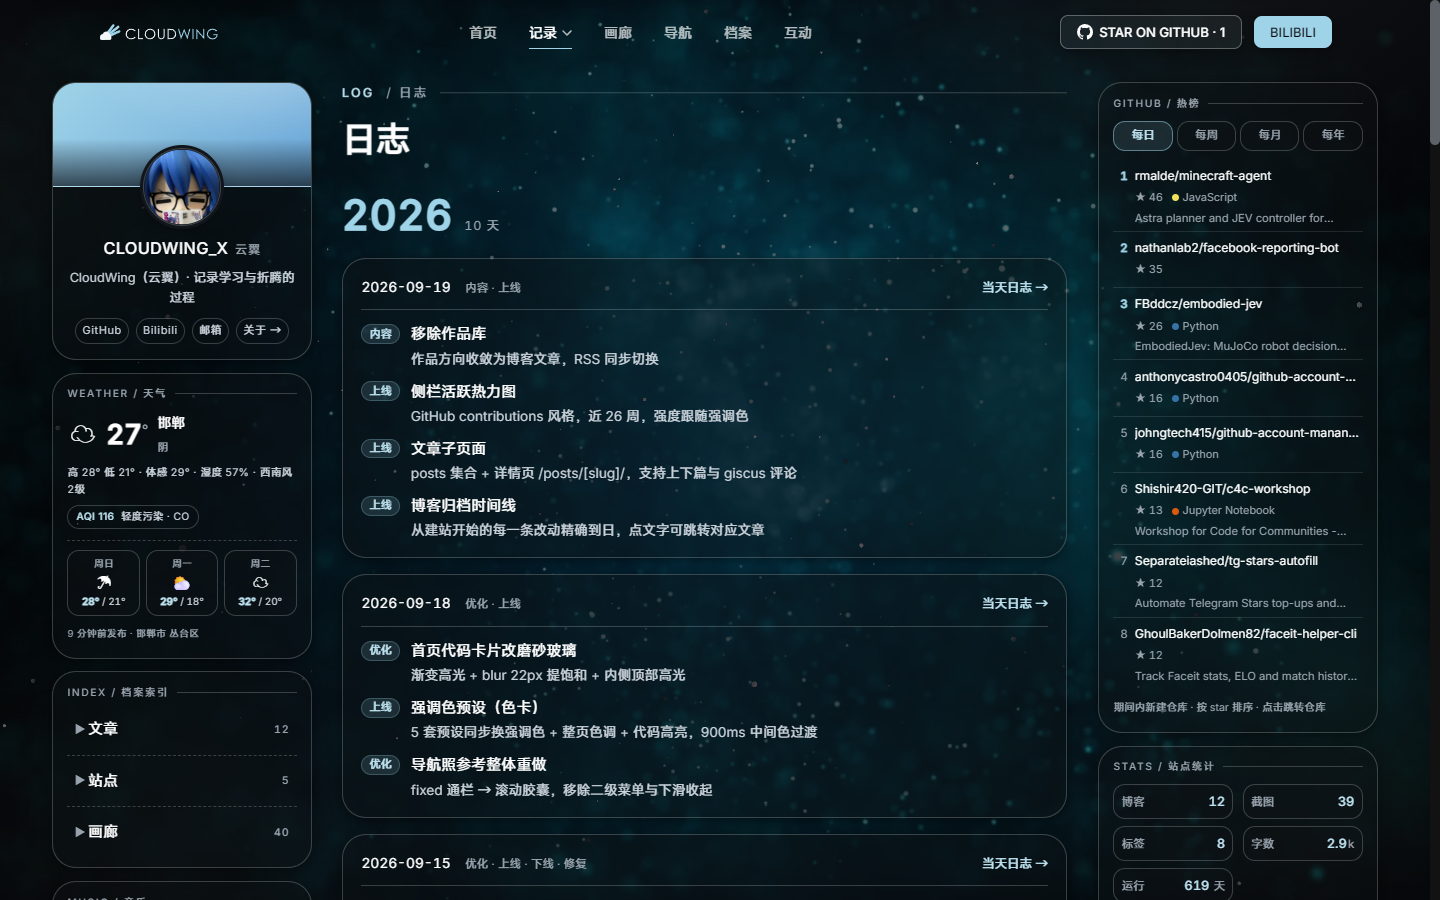
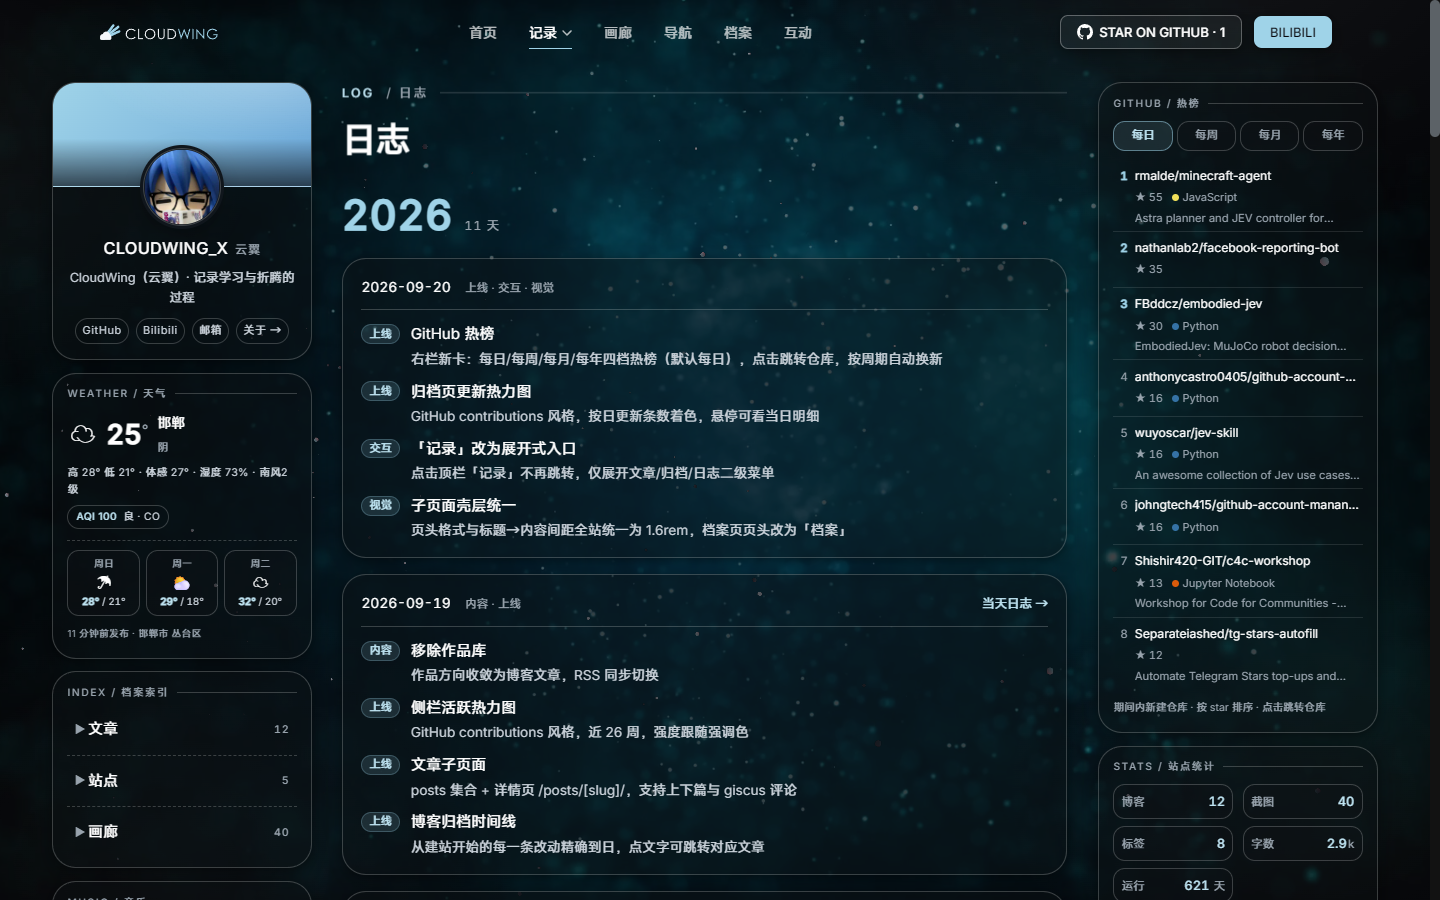
docs: 交接文档完善——基线数字刷新 + §57 章节地图 + 09-20 changelog 补录
- 头部/§0/§7.2/§14 基线统一：21 个验证脚本、发布前全量 21/21、smoke 58/58（2026-09-20 实测）、#424 已修复口径
- §7.2 脚本表补 verify-ghhot 行；§10 补两条遗留（热榜数据口径与限流 / 短页右栏底部可达性）
- §13 划掉已完成项（文案断言已由 verify-copy 解决、09-18 changelog 已补），新增候选：热榜数据源升级、验证套件上 CI（当前最大工程缺口）
- 新增 §57 章节地图与交接导航：编号乱序由来（活文档+插叙，编号为稳定引用不重排）、新接手者 7 步阅读路径、主题→章节索引
- 补录 src/content/changelog/2026-09-20.md（4 条：壳层统一/记录展开式入口/归档热力图/GitHub 热榜）——归档与日志页数据源当天改动当天补
- 验证：build+pagefind 过、verify-copy 31/31、verify-log 过、09-20 条目进归档页

diff --git a/docs/HANDOFF.md b/docs/HANDOFF.md
@@ -10,7 +10,9 @@
 > （见 §43.1），其"简版硬规则"职责并入本文件。
 > 文中的本机路径（`D:\deep seek workplace\...`、Edge 路径、代理端口）来自开发机，换机器请按实际情况替换。
 >
-> 最后更新：2026-09-20 下午 **右栏新增「GitHub 热榜」卡（日/周/月/年四周期，时间桶缓存
+> 最后更新：2026-09-20 傍晚 **交接完善：全篇基线数字刷新（21 脚本 / 21/21 / smoke 58/58）、
+> §57 章节地图与阅读路径、09-20 changelog 补录（4 条）**；
+> 同日下午 **右栏新增「GitHub 热榜」卡（日/周/月/年四周期，时间桶缓存
 > 实现「24 点自动换新」，新第 21 号脚本 verify-ghhot，见 §56）**；
 > 同日中午 **归档页标题下新增「更新热力图」（GitHub contributions 风格，
 > 按日更新条数着色，见 §55；顺带修掉 `--accent-rgb` 只在首页定义、其它页 rgba() 静默失效的坑）**；
@@ -44,12 +46,10 @@
 > 单页/组件 → 只跑该页冒烟 e2e（`node scripts/smoke.mjs`）+ 该模块脚本；
 > 功能模块 → 相关模块脚本 + 关键路径 e2e；
 > **全量回归 `run-regress.mjs` 只在 PR 前 / 合并前 / 发布前 / 站长明确要求时跑，且优先交给 CI**。
-> 自检入口仍为 `cd endfield-blog && node scripts/run-regress.mjs`（**现为 20 个脚本**一次批跑）→
-> 最近一次 **20/20 全绿**（2026-09-20 凌晨 §53 发布前全量；其中 `verify-videobg` 首跑 21/22
-> 为视频帧采样的时序假失败，复跑两次 22/22，同 §46.5 判据）；
-> 此前 19/19 见 §51.3 / §50.4；
-> 上一轮 18 脚本时代 18/18 见 §49.4；上一轮 16 脚本时代为 15/16，唯一失败项 `verify-videobg` 经复跑证实为时序假失败，见 §46.5）。
-> （单个入口 `node scripts/smoke.mjs` 为 **53/53**）。
+> 自检入口仍为 `cd endfield-blog && node scripts/run-regress.mjs`（**现为 21 个脚本**一次批跑）→
+> 最近一次 **21/21 全绿**（2026-09-20 下午，GitHub 热榜卡 + 新脚本 verify-ghhot 加入后的发布前全量，见 §56；
+> 此前 20/20 见 §53 / §54）；
+> 单入口 `node scripts/smoke.mjs` 为 **58/58**（2026-09-20 实测）。
 > ✅ **文案漂移现在有断言了**（2026-09-19）：`scripts/verify-copy.mjs`（31 条，见 §7.2 / §42.2）——
 > §32 那种"几何全绿却带着错文案上线"的缺陷类已被堵住。
 > ✅ **`React error #424` 已于 2026-09-18 定位并修掉**（见 §37）：根因是软导航时
@@ -68,16 +68,14 @@
 个人博客与档案站「云翼 / CloudWing」，**Astro 7 静态站 + React 岛 + 暗色电影感玻璃 UI**，源码在 `endfield-blog/`，
 线上 <https://cloudwing.pages.dev>，仓库 <https://github.com/CloudWingX/cloudwing>（公开），
 推 `main` 即由 Cloudflare Pages 自动构建部署。**站点处于可用且已验证的状态**：
-验证脚本现为 19 个：发布前全量 **19/19**（2026-09-19 晚，见 §50.4；18 脚本时代 18/18 见 §49.4）；可读性 0 处不达标、
+验证脚本现为 **21 个**（批跑队列见 `scripts/run-regress.mjs`；单入口 `smoke.mjs` **58/58**），
+最近一次发布前全量 **21/21**（2026-09-20 下午，见 §56.4）；可读性 0 处不达标、
 8 个页面 0 JS 异常、手机端 0 横向溢出（三机型 × 7 页）。
-（另有 3 个工具脚本：诊断 2 —— `diag-edges` / `probe-point`；部署轮询 1 —— `poll-deploy`，
-以及事件诊断 `diag-424`。）
-**2026-09-19 起验证脚本为 18 个**（在 `verify-copy` 之外，新增 `verify-nav-icons` 图标静态断言
-与 `verify-interaction` 交互基线断言，两者均已接入批跑），可用
-`node scripts/run-regress.mjs` 一键批跑全部并汇总 PASS/FAIL。
-⚠ **但"一键批跑"不等于"每次改动都要跑"** —— 测试按 §47 分层，全量只在 PR/合并/发布/明确要求时跑。
+（另有若干**工具/诊断脚本**：`diag-edges` / `probe-point` / `diag-424` / `poll-deploy` /
+`border-check` / `imgstats` / `shot-*` 等——不在批跑队列但不是死代码，清单见 §7.2 表尾。）
+⚠ **"一键批跑"不等于"每次改动都要跑"** —— 测试按 §47 分层，全量只在 PR/合并/发布/明确要求时跑。
 
-> **接手第一件事**：`cd endfield-blog && npm run build && node scripts/smoke.mjs`（期望 **53/53**）。
+> **接手第一件事**：`cd endfield-blog && npm run build && node scripts/smoke.mjs`（期望 **58/58**）。
 > ⚠ 必须用 `npm run build`（= `astro build && pagefind --site dist`）——只跑 astro build
 > 不会生成 pagefind 索引，verify-search 会全红。⚠ 回归前确认 4321 服务是**新起的**
 > （陈旧的 preview 会让你测一小时的旧 dist，见 §41）。
@@ -1488,7 +1486,7 @@ const ws = new WebSocket(tab.webSocketDebuggerUrl);
 > ★**怎么选脚本：按 §47 的分层策略，不是每次都跑全套**★
 > 改一个子页面 → `smoke.mjs` + 该页对应的一条脚本；
 > 改一个功能模块 → 本表里相关的那几条；
-> **全套 `node scripts/run-regress.mjs`（20 个脚本串行 + 汇总 PASS/FAIL）只在
+> **全套 `node scripts/run-regress.mjs`（21 个脚本串行 + 汇总 PASS/FAIL）只在
 > PR 前 / 合并前 / 发布前 / 站长明确要求时跑，且优先交给 CI。**
 > `verify-copy.mjs` 与 `verify-nav-icons.mjs` 是**不需要无头浏览器**的两个
 > （只读源码 / 已构建的 `dist/`；`verify-copy` 也可直接给线上 URL 走 sitemap 枚举），
@@ -1512,6 +1510,7 @@ const ws = new WebSocket(tab.webSocketDebuggerUrl);
 | `verify-interaction.mjs` | ★**交互基线断言**（§49）：A 鼠标拖过正文选不中 + **A′ 对照组**（放行 `user-select` 后同样拖拽必须能选中，证"拖拽确实生效"；**2026-09-20 起对照文本改用右栏引文 `.sw-quote blockquote`**——标题下描述已按 §52 全站删除）；B 点击头像/导航卡/图标位后无轮廓；C Tab 聚焦必有可见轮廓且不带 `data-pointer-focus`；D 指针点文本输入框仍保留轮廓；E `body=none` / `input=text`；**F 真实文章页拖过 `.pp-md p` 必须选中**（保护 §49.3 刻意保留的例外） | **12/12** |
 | `verify-shell.mjs` | ★**壳层一致性断言**（§52/§53）：7 个子页面逐页验 ① 内容顶与侧栏首卡顶对齐（≤1px）；② kicker 是「EN / 中文」格式（无「· 后缀」）；③ 标题下无描述简介（`.txt`/`.sub` 不许是 page-head 直接子元素）；④ **标题→内容间距符合全站 1.6rem 节奏（§53：卡片/区块边界型量盒间距、about 平文型量首文本顶，分页口径表）**；⑤ h1 非空；⑥ 无横向溢出 —— 防页头格式、顶对齐与间距节奏再次漂移 | **50/50** |
 | `verify-log.mjs` | ★**日志页断言**（§50）：A 落在 `/log/` 且标题为「日志」；B 结构（年分组新→旧、每日期卡非空、条目徽标+标题、note 与「当天日志 →」链接在、无空态兜底）；C 导航三处注册（顶栏/左栏/当前高亮）；D 玻璃材质（backdrop-filter）+ 无横向溢出；E 运行时 0 异常。断言刻意用**相对计数**（不写死天数/条数），加 changelog 不会误报 | **15/15** |
+| `verify-ghhot.mjs` | ★**GitHub 热榜卡断言**（§56）：① 卡片位于 STATS 卡正上方；② 四 tab（日/周/月/年）+ 默认每日；③ 每日榜真实渲染 ≥5 条；④ 条目链接跳转 github.com 仓库；⑤ 条目带 star；⑥ 切每周正常渲染；⑦ 日/周**缓存桶 = 当天/本周一**（「24 点自动换新」的实现依据）。⚠ 真实调用 api.github.com（无鉴权搜索限流 10 次/分），只实拉日/周两周期，**别在循环里跑** | **9/9** |
 | `contrast-audit.mjs` | WCAG 对比度审计（逐节点"前景 vs 实际合成背景"） | 暗色 **0 处不达标** |
 | `mobile-shots.mjs` | 三机型视口 × 8 页截图 + 横向溢出统计 | **24/24 无溢出**（2026-09-19 晚 `/log/` 后 21 → 24） |
 | `diag-errors.mjs` | 逐页 JS 异常计数（含 `/log/`） | 全页 **0** |
@@ -1789,6 +1788,8 @@ $css  = ([regex]::Matches($html,'href="(/_astro/[^"]+\.css)"') | % { $_.Groups[1
 | ~~首页 Hero 右侧留白（1920）~~ | **已解决**（2026-09-18 三轮）：版面改为 **700 / 96 / 400**，三块正好占满 1196 净宽，不再有右侧余量（§36.2） |
 | 大标题字号 vs 参考 | **已更新**：2026-09-18 三轮把上限提到 **52px**（同时把左栏 645 → 700，因为第一行 28 字符在 52px 下实宽 686px）。参考的 66px 仍不可达 —— 要放宽左栏或改文案（§35 / §36.2） |
 | 代码卡片高度/行数 | 卡片 **400** 宽 + 代码 15 行时约 470 高；**加长代码段或调 `--code-lh` 前先量 1440 下的卡片高**，否则 hero 会被顶出视口（§34 / §36.2） |
+| GitHub 热榜数据口径 | 现为「**期间内新建仓库**按 star 排序」（GitHub Search API，§56）——与 github.com/trending 的"当前热度"不完全等价；且无鉴权搜索限流 10 次/分。要换成更贴近官方 trending 的数据源（如 OSS Insight）需换实现，说一声即可 |
+| 短页右栏底部可达性 | 右栏加了热榜卡后更高，/nav/ 这类短页上右栏最底部的「今日一言」**要滚到页底才可见**（§56 附带发现，真实用户可用但脚本坐标要滚页底）。嫌深可以给短页砍右栏卡片或给热榜做折叠 |
 
 ---
 
@@ -1838,15 +1839,21 @@ $css  = ([regex]::Matches($html,'href="(/_astro/[^"]+\.css)"') | % { $_.Groups[1
 ## 13. 下一步可以做什么（供参考，未开工）
 
 **2026-09-18 这一轮留下的、最适合接着做的**：
-- **补一条 `src/content/changelog/2026-09-18.md`**：这一轮改了导航、首页 Hero、代码卡片、
-  色卡切换与全局容器宽度，侧栏「更新日历」目前完全看不到（§10 已列）；
+- ~~**补一条 `src/content/changelog/2026-09-18.md`**~~ **已补**（且 09-19 / 09-20 均有对应条目，
+  归档/日志页时间线是全的；**注意 09-20 之后的内容仍未写，交手新改动时要随手补 changelog**）；
 - ~~**定位线上间歇 `React error #424`**~~ **已完成**（见 §37）。剩下的收尾：推 `main` 上线后
   在**线上**复跑 `node scripts/diag-424.mjs https://cloudwing.pages.dev 3`，确认线上同样归零；
-- **给文案加自动化断言**：`SITE.notice` / `tagline` 曾带着"浅色通透"上线而 14 个脚本全绿（§32），
-  现在只有 §7.4.2 的手动清单；
+- ~~**给文案加自动化断言**~~ **已完成**（2026-09-19：`scripts/verify-copy.mjs` 31 条，见 §42.2）；
 - **首页 Hero 右侧留白**（1920 下 159px）与**代码卡片再瘦身**：都要动内部尺寸，需用户确认（§34/§36）；
 - **色域扩展**：色卡现在是 5 套（雾蓝/镜蓝/极光/余烬/紫晶），加一套只需在 `src/site.ts` 的
   `ACCENTS` 里追加一条（含 `hue`/`sat`/`tintA`），其余全自动（§34）。
+
+**2026-09-20 新增的候选**：
+- **GitHub 热榜数据源升级**：现为 Search API「期间新建仓库」口径（§56 / §10），要更贴近官方
+  trending 可换 OSS Insight 等源（需重做 fetch/解析，缓存桶机制可复用）；
+- **验证套件上 CI**：§47 一直说"全量优先交给 CI"，目前 CI 上**还没有**任何 workflow ——
+  把 `run-regress.mjs` 搬上去（需解决无头浏览器在 CI 的安装与 4321 预览）是当前最大的工程缺口；
+- **短页右栏底部可达性**（§10 新条）：/nav/ 等短页要滚到页底才能看到「今日一言」。
 
 **更早留下的**：
 - 画廊二次分类（多游戏时的分类导航已就绪，只等更多内容）；
@@ -1887,14 +1894,14 @@ $ud = Join-Path $env:TEMP ("cwcdp-" + (Get-Date -Format 'HHmmss'))
 Start-Process 'C:\Program Files (x86)\Microsoft\Edge\Application\msedge.exe' -ArgumentList @('--headless=new','--remote-debugging-port=9222','--remote-allow-origins=*',"--user-data-dir=$ud",'--no-first-run','--disable-extensions')
 
 # 3) 串行跑全部脚本（当前基线见 §7.2）—— 一条命令搞定
-node scripts/run-regress.mjs          # 期望「总结: 16/16 通过」
-# （它内部按固定顺序串行 spawn 16 个脚本；不要自己并发跑，见 §7.1 第 6 条）
+node scripts/run-regress.mjs          # 期望「总结: 21/21 通过」
+# （它内部按固定顺序串行 spawn 21 个脚本；不要自己并发跑，见 §7.1 第 6 条）
 # 单独重跑某个脚本：node scripts/<名>.mjs http://127.0.0.1:4321 [light|dark]
 
 # 4) 线上同一套（先确认推送成功、CF 构建完成；反向特征检查见 §7.5）
 git ls-remote origin main
 node scripts/poll-deploy.mjs --have '--w-max:\s*1300px' --not 'hero::before'   # 通了才继续
-node scripts/smoke.mjs https://cloudwing.pages.dev                 # ⚠ 间歇：约 2/3 轮次会报已知的 #424
+node scripts/smoke.mjs https://cloudwing.pages.dev                 # 期望 58/58（#424 已修复，见 §37）
 node scripts/verify-videobg.mjs https://cloudwing.pages.dev dark   # 期望 22/22（含"容器边缘无分界线"）
 node scripts/verify-copy.mjs https://cloudwing.pages.dev           # 期望 31/31（走 sitemap 枚举全站页面）
 
@@ -2904,3 +2911,48 @@ node scripts/verify-interaction.mjs https://cloudwing.pages.dev
 - ⚠ **连带修 verify-interaction A 组拖选对照组（§49）**：热榜卡把右栏引文卡推低后，/nav/ 这类短页上引文只在**滚到页底**时才进视口（scrollIntoView 在溢出裁剪祖先上会提前停），且热榜异步渲染期量坐标会拿到骨架期的滚动上限——对照组改为「等热榜 ready → scrollTo 页底（必须 `behavior:'instant'`，全局 smooth 滚动的坑再 +1）→ 量矩形（底部越界即报不可达）」。
 - 验证：CDP 探针全过（位置 / 默认每日 / 8 条真实数据 / github.com 链接 / 切 tab / 缓存桶 / 切回秒出走缓存）；verify-ghhot 9/9；verify-interaction 复跑 2× 12/12；**发布前全量 21/21**（§47.2）。
 - 截图：`_shots/ghhot.png`。
+
+## §57 章节地图与交接导航（2026-09-20 傍晚，交接完善轮）
+
+> **为什么编号是乱的**：本文件是"活文档"——§0–§14 是交接骨架（保持编号稳定，方便旧引用不失效），
+> §15 起是**按时间追加的变更史**；中途几轮大修（§37–§41、§42–§49）是"插叙"，所以会出现
+> §37 排在 §6 与 §7 之间、§52 排在 §51 之前这类顺序。**编号本身是稳定引用，别重排**；
+> 要按时间看变更，从文件末尾往前读（§56 → §50 → §49 …）。
+
+### 57.1 新接手者的推荐阅读路径（半天可完成）
+
+| 顺序 | 读什么 | 目的 |
+|---|---|---|
+| 1 | §0 一句话现状 + §0.1–§0.4 轮次摘要 | 站点是什么、现在什么状态 |
+| 2 | §1 五分钟上手 → 照做一遍 build + smoke（期望 **58/58**） | 把本地环境跑起来 |
+| 3 | §2 环境硬约束 + §3 目录结构 | 本机的坑、每个目录谁负责 |
+| 4 | §5 三条铁律 + §6 踩坑手册（先通读标题） | **不做错事**；细节等踩到再查 |
+| 5 | §7 验证与调试（§7.1 调试环境三步、§7.2 脚本清单表、§7.6 断言三铁律） | 学会怎么验证自己的改动 |
+| 6 | §8–§9 三栏壳层 / 主题令牌 + §47 测试分层 | 改 UI 与跑测试的规矩 |
+| 7 | §10 遗留问题 + §13 下一步 + §14 交接自检清单（照抄跑一遍） | 接住没做完的事 |
+
+### 57.2 主题 → 章节索引（按"你要改什么"查）
+
+| 你要动的东西 | 先读 |
+|---|---|
+| 导航栏（形态 / 抽屉 / 记录下拉） | §33、§31、§51、§54；改 NAV 结构必同步 §51.3 两处断言 |
+| 首页 Hero / 代码卡片 / 容器宽度 | §34、§36、§36.1、§36.2 |
+| 子页面壳层（页头 / kicker / 间距 / 顶对齐） | §52、§53；新子页面必读 §44.4 三件事 |
+| 新增子页面 | §44（骨架）+ §44.4（断言同步）+ §52/§53（壳层口径） |
+| 内容（文章 / changelog / 画廊 / 导航站点） | §4 内容怎么加；§46（站点条目） |
+| 强调色 / 主题令牌 | §9、§34（色卡预设）、§55（`--accent-rgb` 全局定义） |
+| 交互策略（拖选 / 轮廓） | §49（+ §49.3 正文放行例外） |
+| 右栏挂件（热榜 / 日历 / 天气 / 音乐） | §56、§8；`ui.js` 的 `githubTrending()` / `weatherWidget()` / `calPanel()` |
+| 验证脚本（新写 / 排查假失败） | §7.2 清单表、§7.6 三铁律、§46.5（时序假失败判据）、§43.2（缓存判据） |
+| 构建与部署 | §44.5（pagefind 索引坑）、§43.2（边缘缓存坑）、§7.5（poll-deploy） |
+| 历史"为什么删了它" | §40（作品库下线）、§27（亮色主题删除）、§41（极简化）、§43（CODEX.md） |
+
+### 57.3 交接完善轮（本节）做了什么
+
+- **基线数字全量刷新**：头部 / §0 / §7.2 / §14 的脚本数（16→…→**21**）、全量基线（**21/21**）、
+  smoke 基线（**58/58**，2026-09-20 实测）与 #424 已修复的口径统一。
+- **§7.2 脚本表**补 `verify-ghhot.mjs` 行；**§10** 补两条新遗留（热榜数据口径 / 短页右栏可达性）；
+  **§13** 划掉已完成项、补 2026-09-20 新候选（热榜数据源升级 / **验证套件上 CI——当前最大工程缺口**）。
+- **补录 `src/content/changelog/2026-09-20.md`**（4 条：壳层统一 / 记录展开式入口 / 归档热力图 / GitHub 热榜）
+  ——归档与日志页的数据源就是 changelog，当天改动必须当天补，漏了时间线就断档。
+- 章节顺序**刻意不动**（编号是稳定引用）；以本节地图代替重排。

diff --git a/src/content/changelog/2026-09-20.md b/src/content/changelog/2026-09-20.md
@@ -1,0 +1,16 @@
+---
+date: 2026-09-20
+items:
+  - kind: '视觉'
+    title: '子页面壳层统一'
+    note: '页头格式与标题→内容间距全站统一为 1.6rem，档案页页头改为「档案」'
+  - kind: '交互'
+    title: '「记录」改为展开式入口'
+    note: '点击顶栏「记录」不再跳转，仅展开文章/归档/日志二级菜单'
+  - kind: '上线'
+    title: '归档页更新热力图'
+    note: 'GitHub contributions 风格，按日更新条数着色，悬停可看当日明细'
+  - kind: '上线'
+    title: 'GitHub 热榜'
+    note: '右栏新卡：每日/每周/每月/每年四档热榜（默认每日），点击跳转仓库，按周期自动换新'
+---
